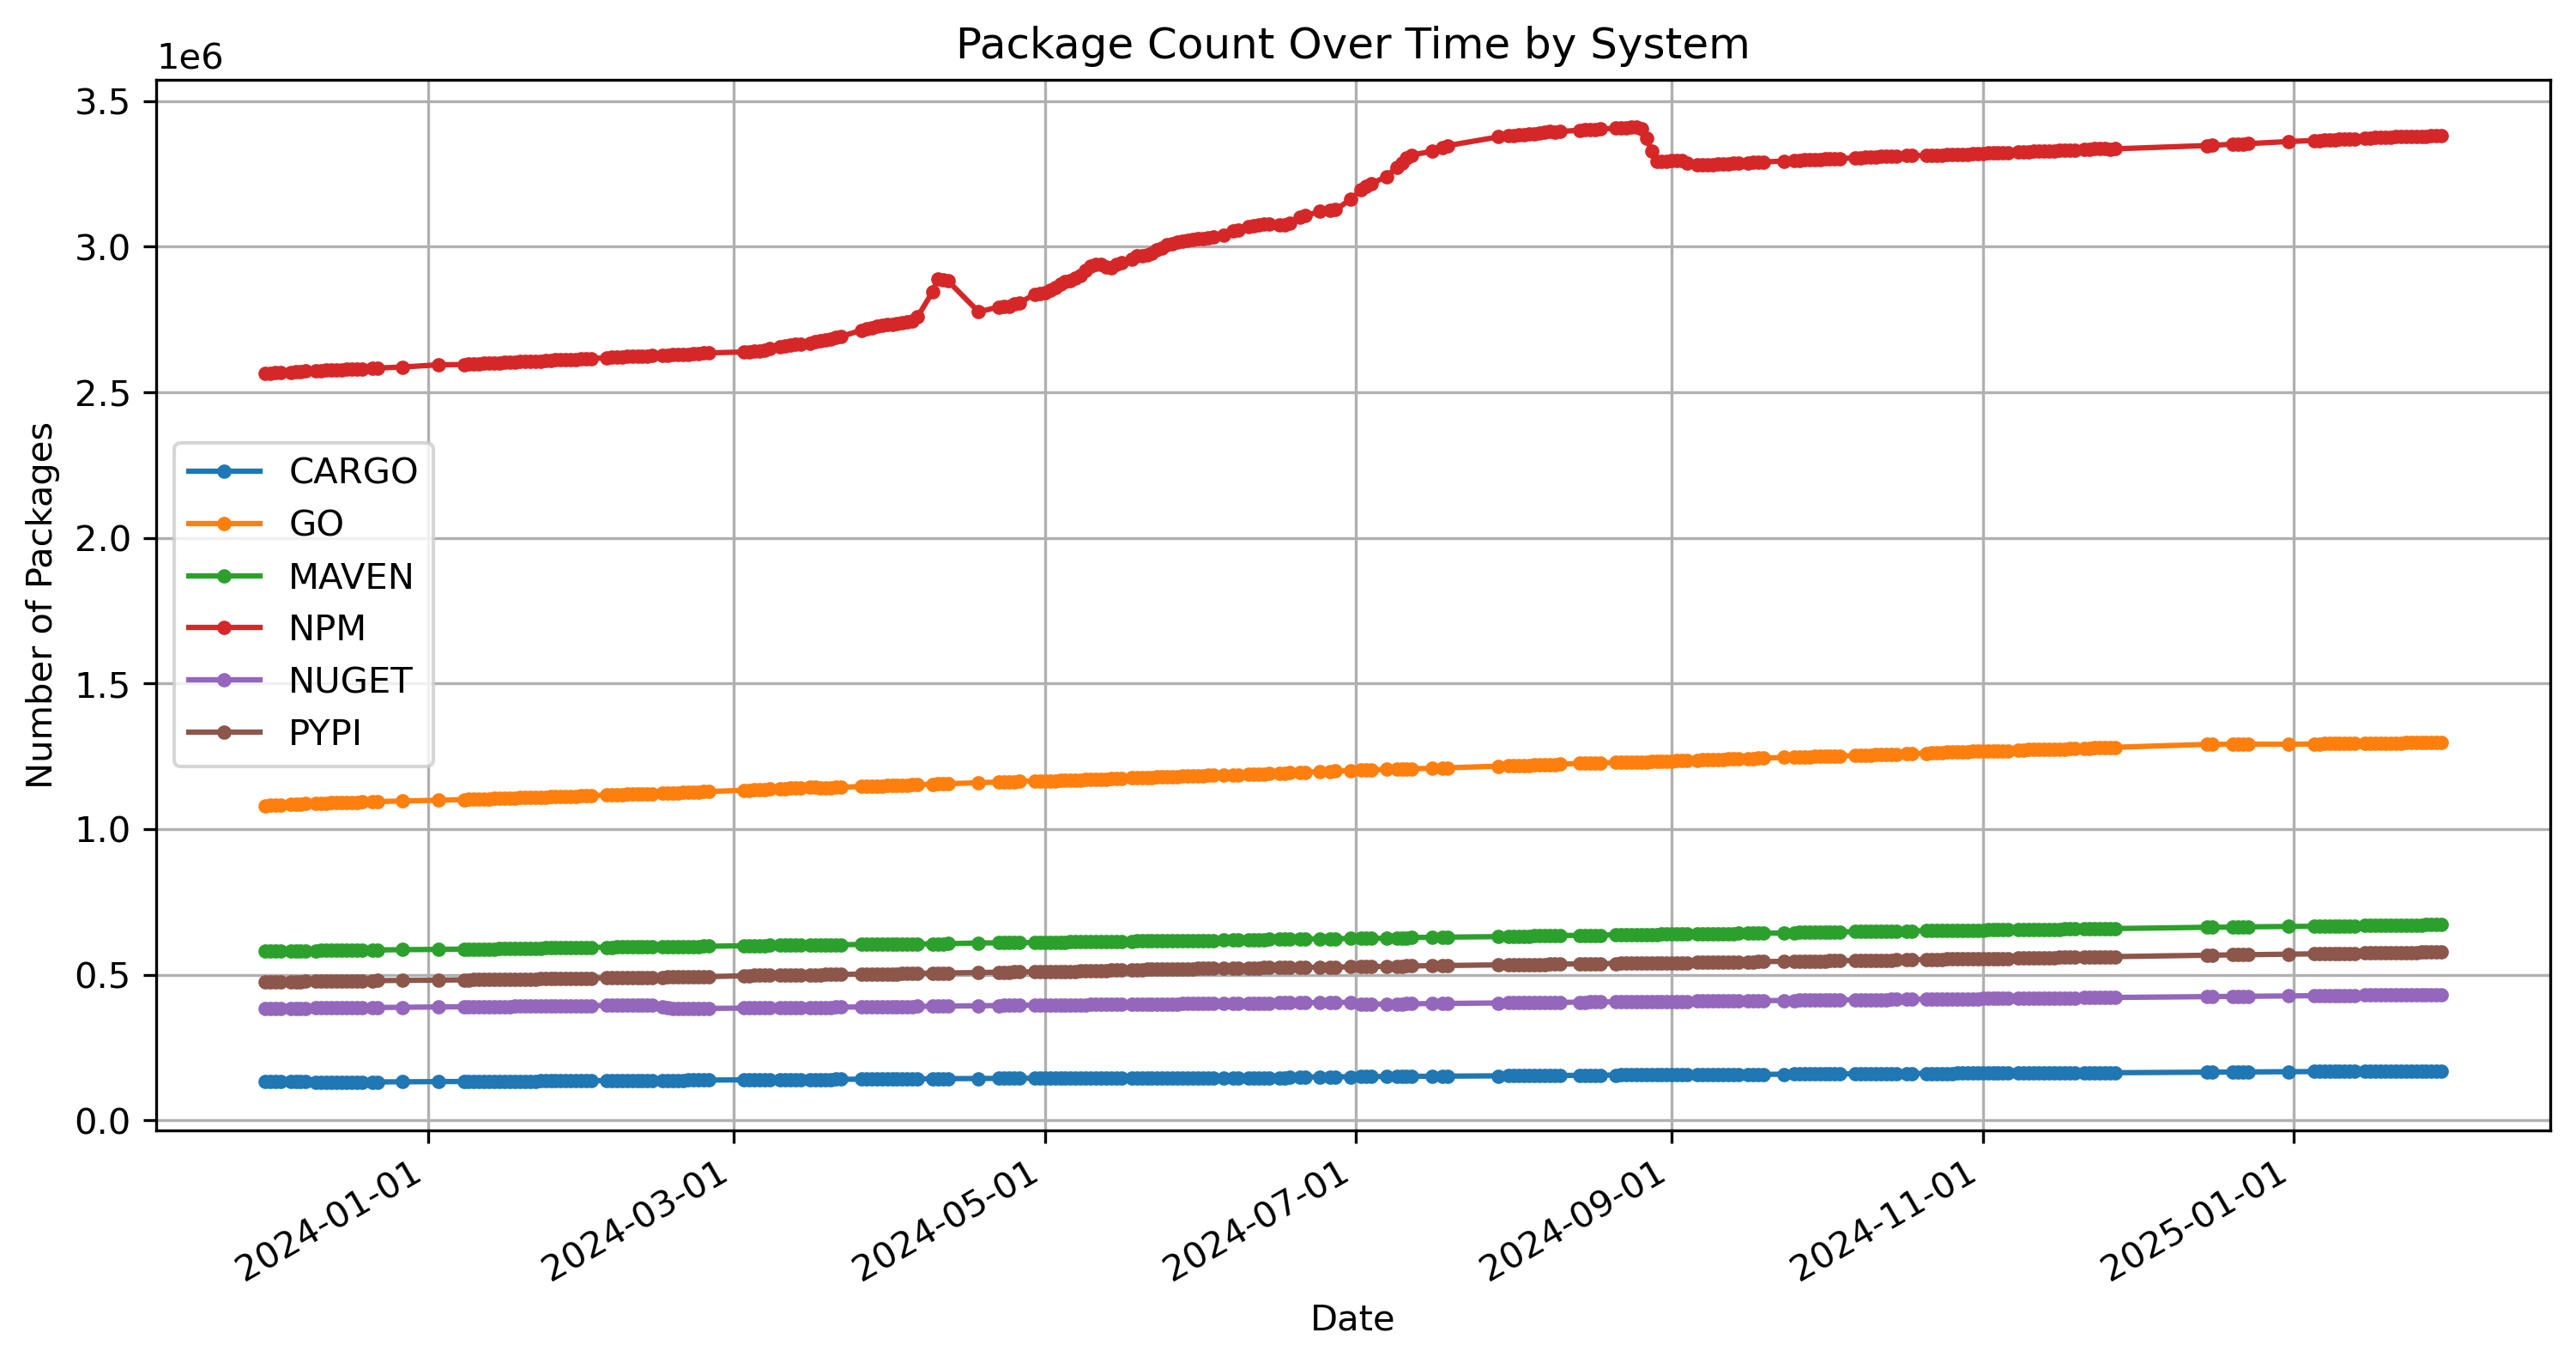
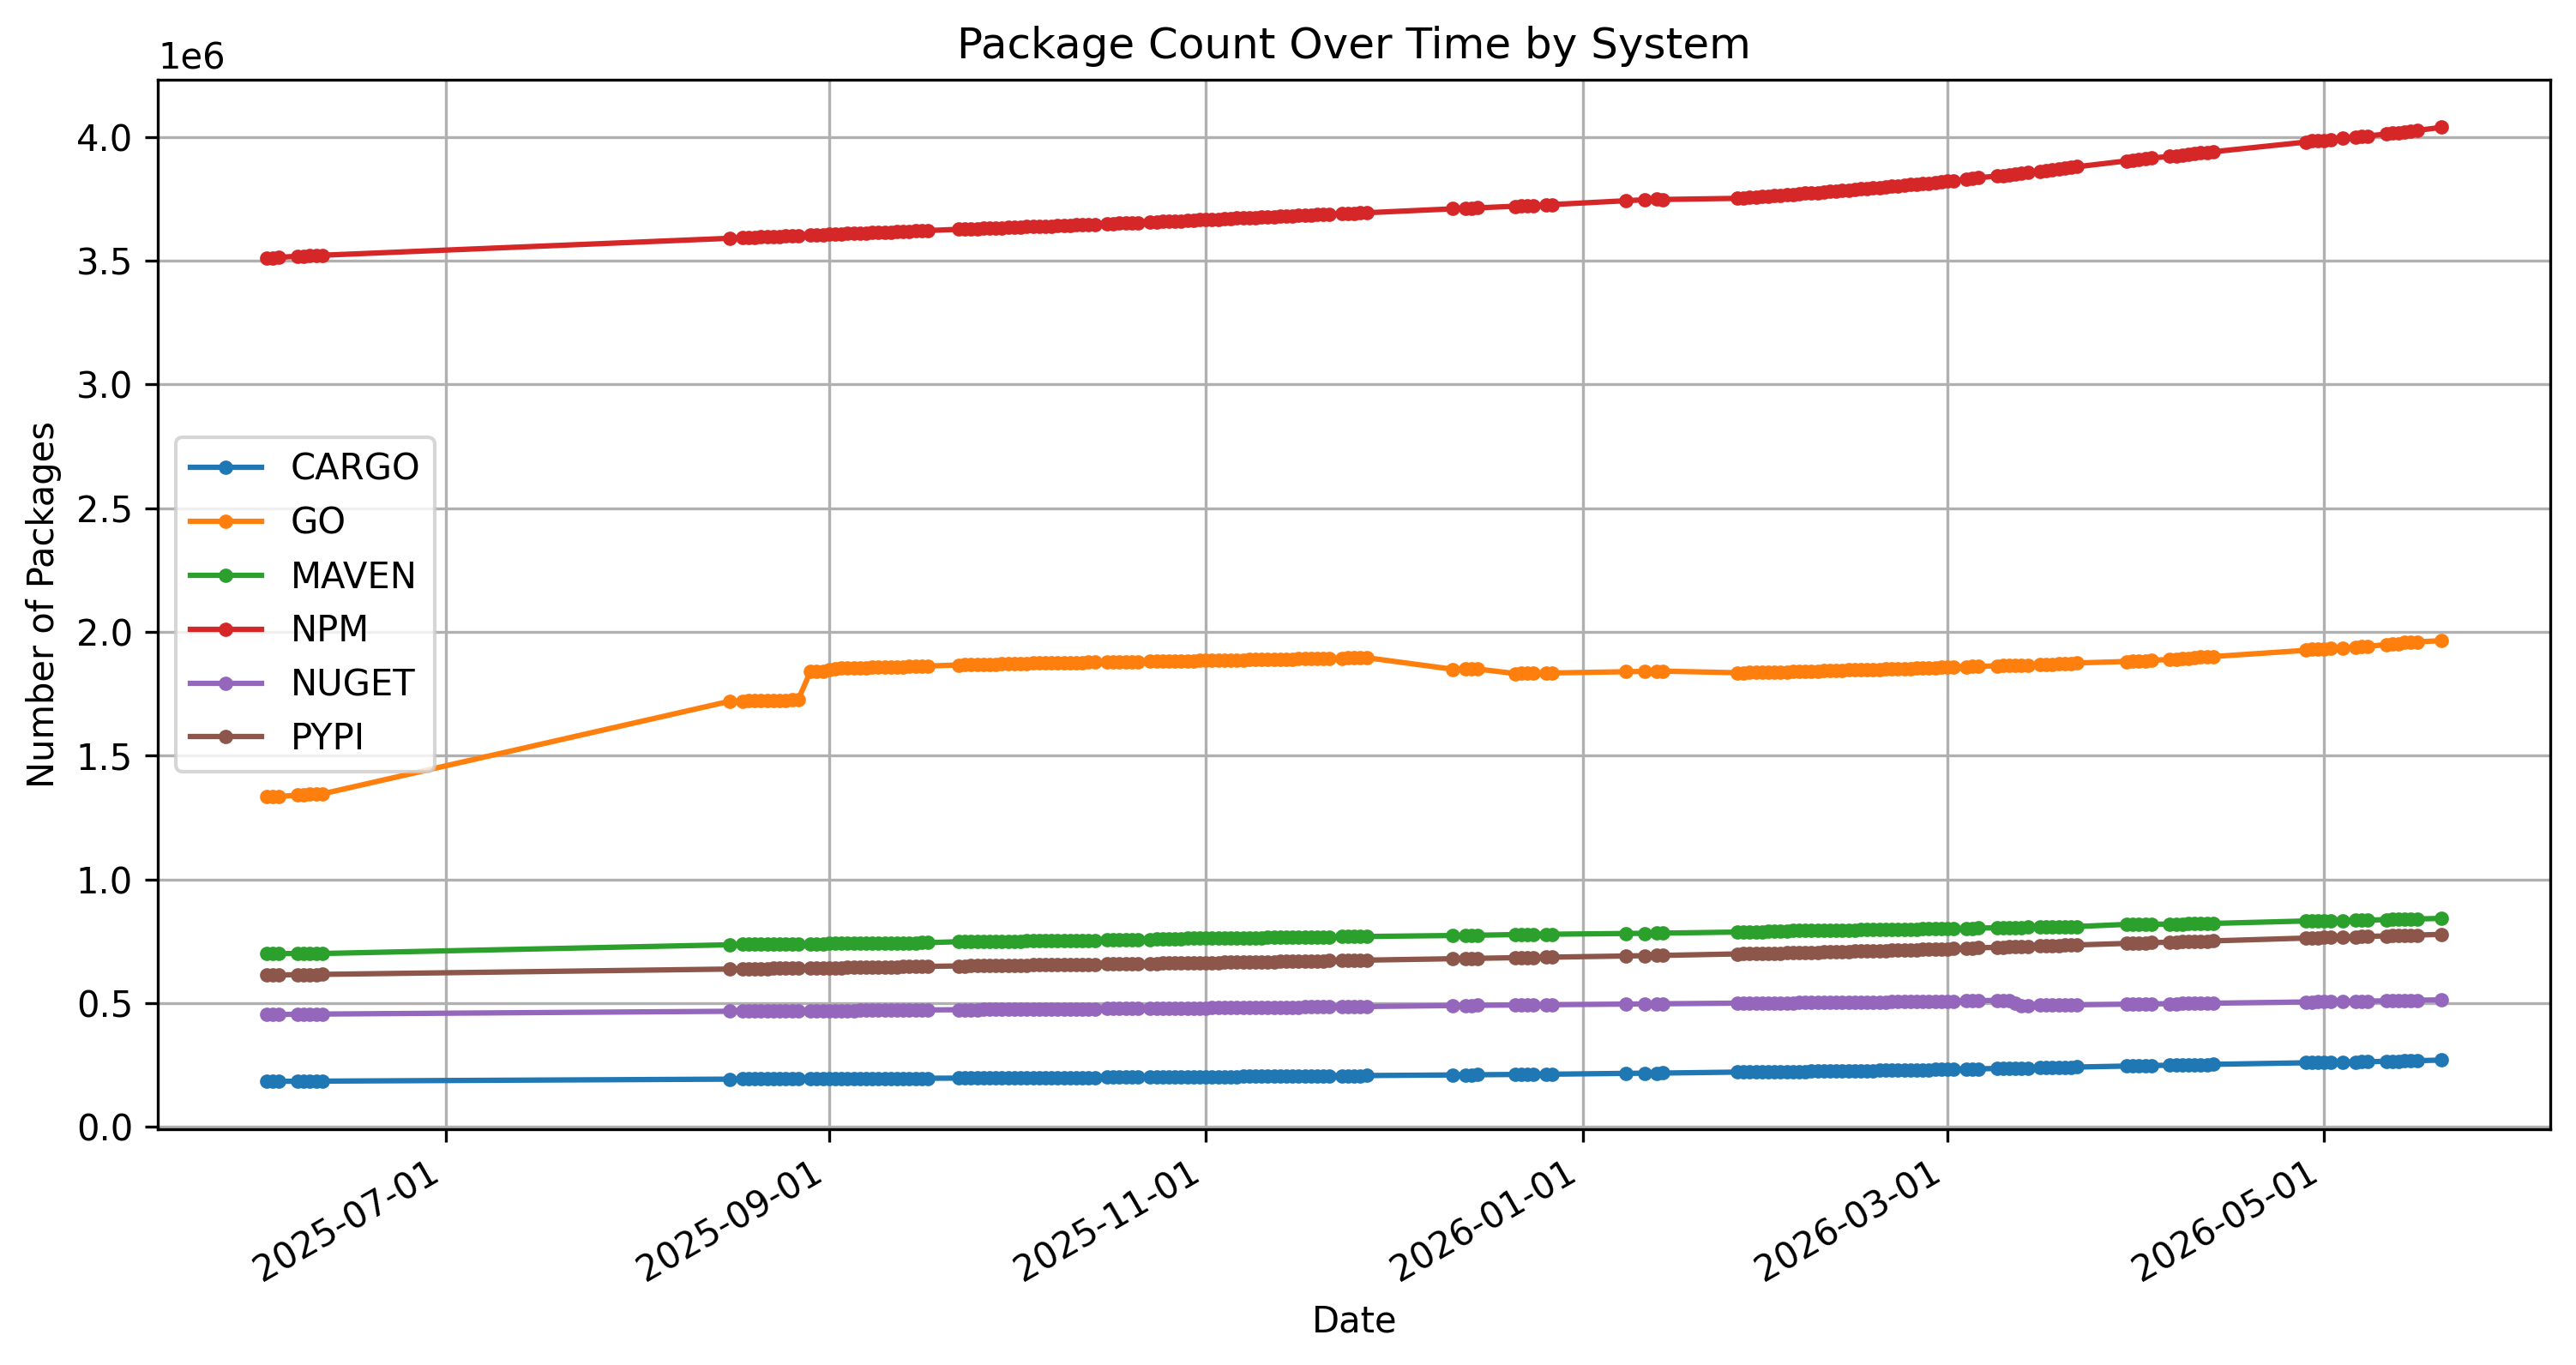
refactor: improve data collection with date filtering and outlier detection (@user at work)

diff --git a/create-graph.py b/create-graph.py
@@ -62,23 +62,41 @@ def extract_date(filename):
 def create_time_series():
     # Get all stats files
     files = sorted(glob.glob('history/stats_*.json'))
-    
+
+    start_date = datetime(2025, 6, 1)
+    end_date = datetime(2026, 5, 31)
+
     # Initialize data structure
     data = {
         'dates': [],
-        'CARGO': [], 'GO': [], 'MAVEN': [], 
+        'CARGO': [], 'GO': [], 'MAVEN': [],
         'NPM': [], 'NUGET': [], 'PYPI': []
     }
-    
-    # Collect data
+
+    # Collect data, skipping files where any system jumps by >50k vs previous day
+    prev_counts = {}
     for f in files:
         try:
             date = extract_date(f)
+            if date < start_date or date > end_date:
+                continue
             stats = load_stats(f)
-            
+            counts = {e['system']: e['packageCount'] for e in stats}
+
+            if prev_counts:
+                skip = any(
+                    abs(counts.get(s, v) - v) > 50000
+                    for s, v in prev_counts.items()
+                )
+                if skip:
+                    prev_counts = counts
+                    continue
+
             data['dates'].append(date)
             for entry in stats:
-                data[entry['system']].append(entry['packageCount'])
+                if entry['system'] in data:
+                    data[entry['system']].append(entry['packageCount'])
+            prev_counts = counts
         except Exception as e:
             pass
     

diff --git a/README.md b/README.md
@@ -1,6 +1,8 @@
-longitudinal study of package repositories per <https://deps.dev/_/stats>
+# Package registry size
 
-Utils:
+Longitudinal study of package registries per <https://deps.dev/_/stats>
+
+## Utils
 
 ###  get_package_stats.py
 
@@ -34,4 +36,6 @@ Something happened in NPM counting
 
 Max derivative is Cargo
 
+## Dependency-graph visibility gap
 
+The deps.dev package counts index only packages that appear in at least one resolved dependency graph. Cross-referencing with PyPI's full upload metadata (BigQuery `bigquery-public-data.pypi.distribution_metadata`) reveals a substantial visibility gap. In June 2025 deps.dev reported approximately 613,000 PyPI packages, growing to ~778,000 by May 2026 (+27%). The absolute monthly new-package rate from BigQuery (~12,000–25,000/month over the same window) is roughly four times higher than the monthly increments visible in deps.dev (~3,000–22,000/month). Package-count metrics derived from dependency-graph indexes substantially underestimate the true rate of package creation on PyPI.